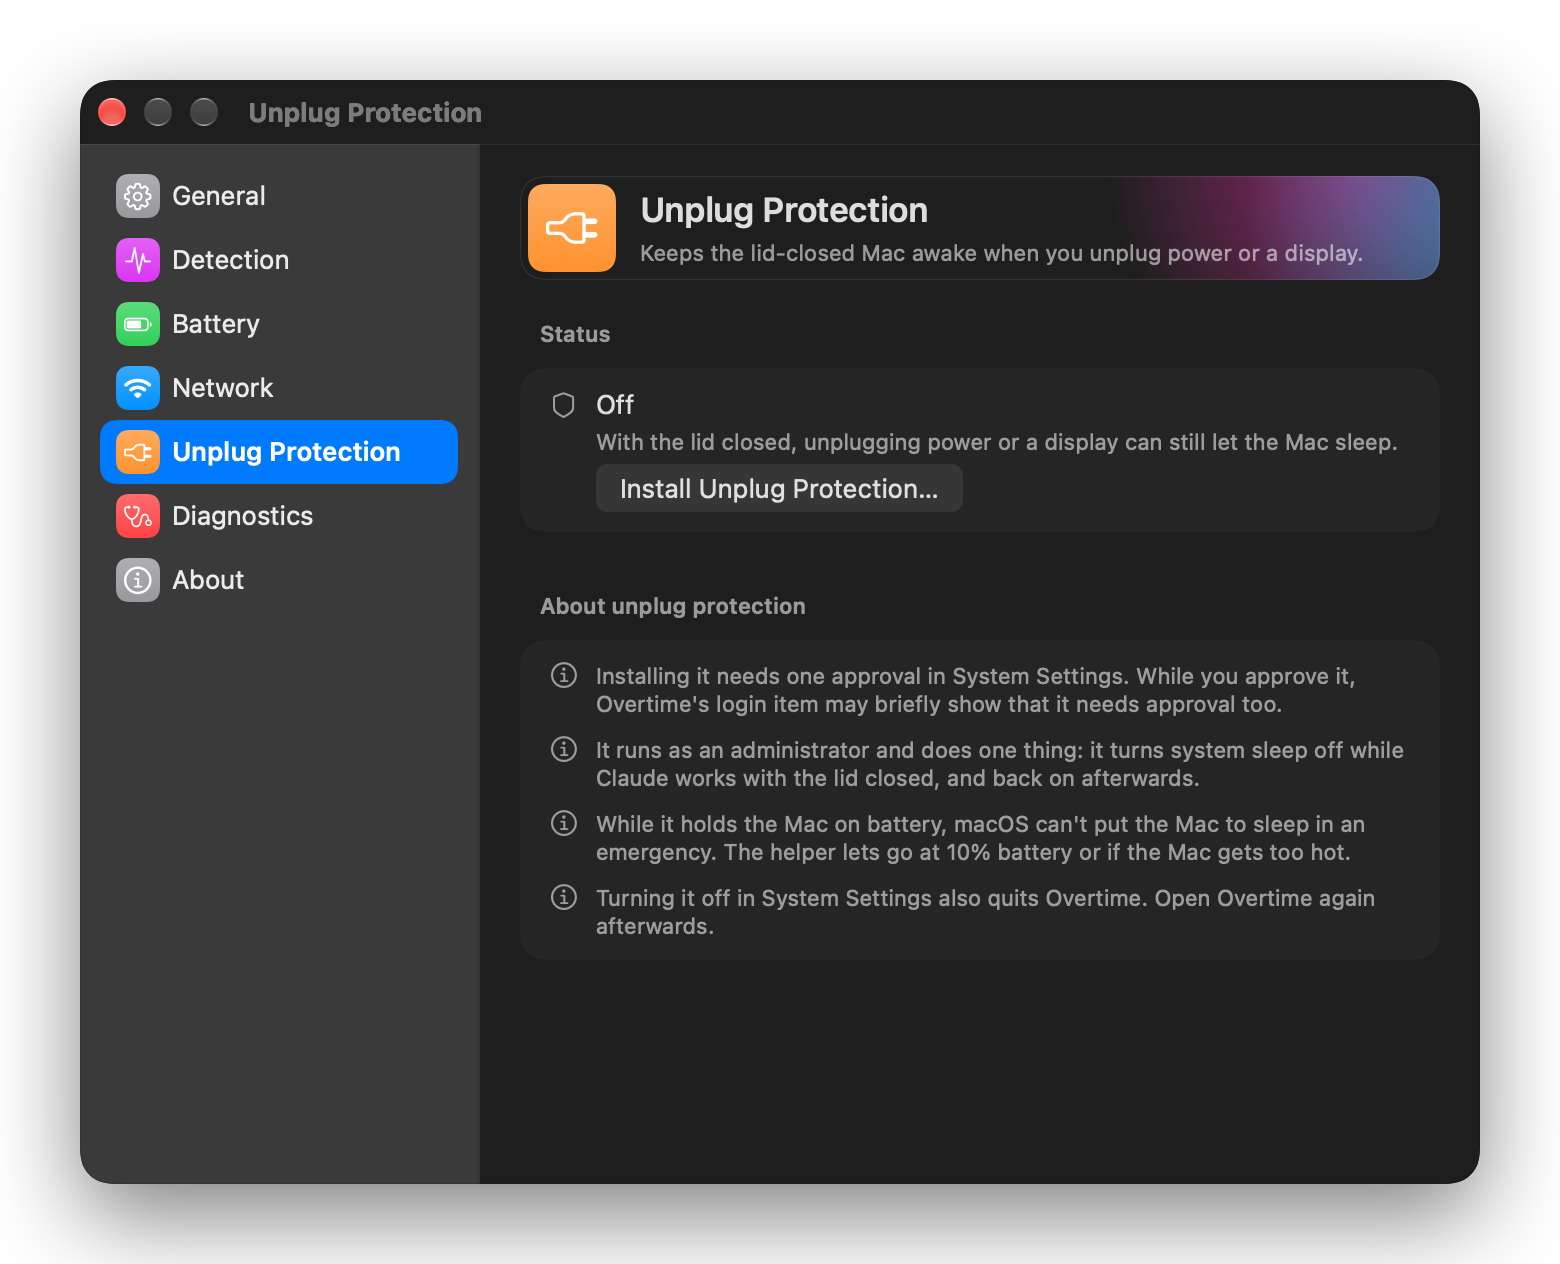
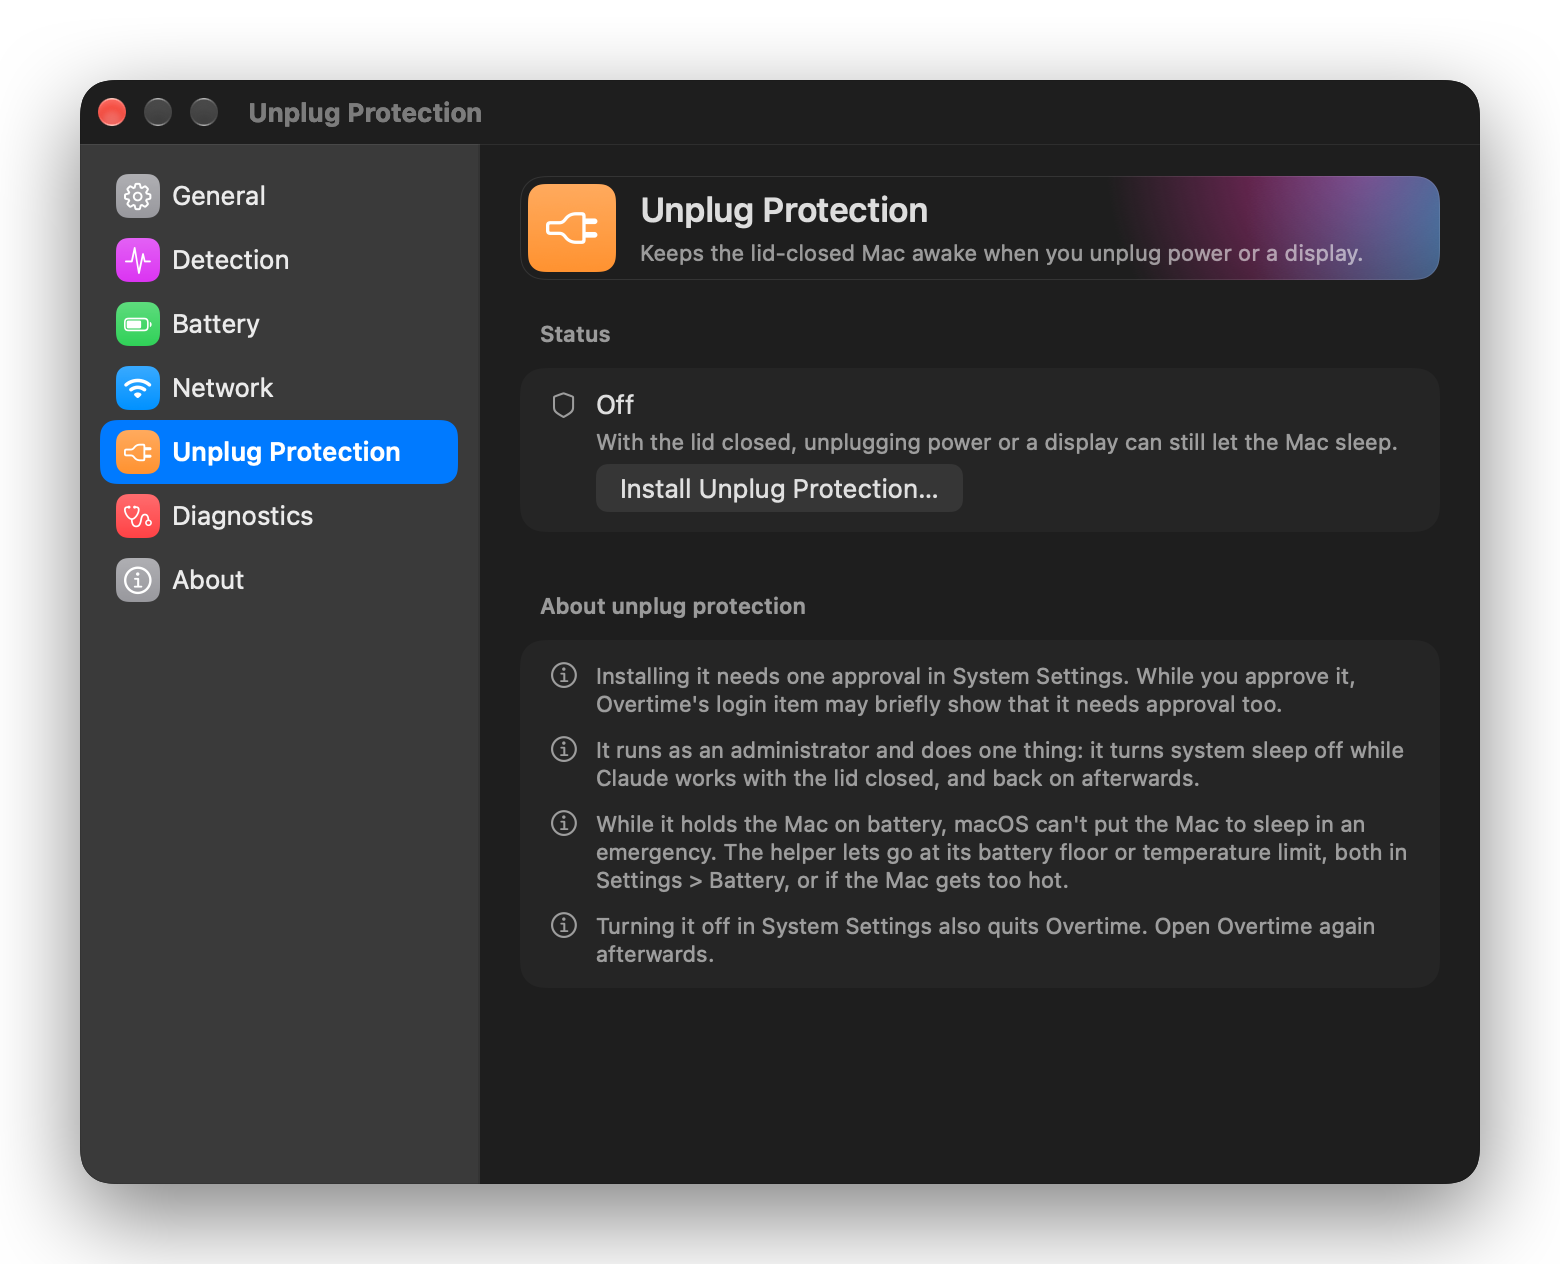
Refresh the README screenshots for 1.0.1
- Regenerate every screenshot; the panel now reads Overtime 1.0.1
- Show Settings > Battery with temperature protection off and a reading
- Show the setup guide's last step, Setup complete

Changed region(s): [[0.3385, 0.6479, 0.8923, 0.7714]]

diff --git a/README.md b/README.md
@@ -96,6 +96,10 @@ The first time Overtime opens, a short guide sets it up in seven steps: Welcome 
   <img src="docs/images/onboarding-dark.png" width="640" alt="The Overtime setup guide on its Welcome to Overtime step">
 </p>
 
+<p align="center">
+  <img src="docs/images/onboarding-complete-dark.png" width="640" alt="The Overtime setup guide on its last step, Setup complete: nothing left to do, the self-test runs on its own, and the Finish Setup button">
+</p>
+
 ## Using Overtime
 
 Click the Overtime icon in the menu bar to open the panel. At the top, a status card shows what Overtime is doing and why, and how long it has kept the Mac awake. Chips below it show the lid, battery and network state. The Claude Sessions list shows each terminal session that is working, titled by its folder and captioned "Working · " with the time it has worked, plus one quiet line for the sessions that are open but idle. Under the list are the controls.
@@ -136,6 +140,10 @@ Settings has seven panes, in this order:
 - **Watch.** A small watchdog process runs next to the app. If Overtime crashes, hangs or is killed, the watchdog restores normal sleep first and then reopens Overtime, at most 3 times in 10 minutes. A hold left behind is cleared the next time Overtime starts, and restarting the Mac clears the lid-close setting.
 - **Release.** The Mac sleeps about three minutes after Claude's last activity: the 2-minute Transcript window plus the 1-minute Release grace, both in Settings > Detection. With the lid closed and no external display, Overtime checks about 30 seconds after letting go that the Mac went to sleep, and asks for sleep if it didn't.
 - **Stay out of the way.** With the lid closed and no external display, the display turns off so the screen locks; an external display is never turned off, and you can keep the display on with "Keep display on while Claude works". On battery, Overtime lets go at 10% and holds again on power or at 20%, both in Settings > Battery, where you can also turn battery protection off. Temperature protection is off until you turn it on there; then, when the battery reaches 45°C, Overtime lets go until it cools below 40°C, and you can change that temperature. Apple menu > Sleep works as usual with the lid open, and Sleep Now and Pause in the panel always let the Mac sleep.
+
+<p align="center">
+  <img src="docs/images/settings-battery-dark.png" width="780" alt="Overtime Settings on the Battery pane, selected in the sidebar, with Battery protection on at Release at 10% and Resume at 20%, and the Temperature section with Temperature protection off, Release at 45°C and a battery temperature of 31°C">
+</p>
 
 Network failover is off until you choose your iPhone hotspot, during setup or in Settings > Network, or turn on Auto-detect iPhone hotspot. It acts only with the lid closed while Claude works. It checks every 10 seconds, asking api.anthropic.com and then captive.apple.com, with no cookies and no cache. After 3 failed checks it joins the hotspot, and it switches back to your usual network when you open the lid.
 
